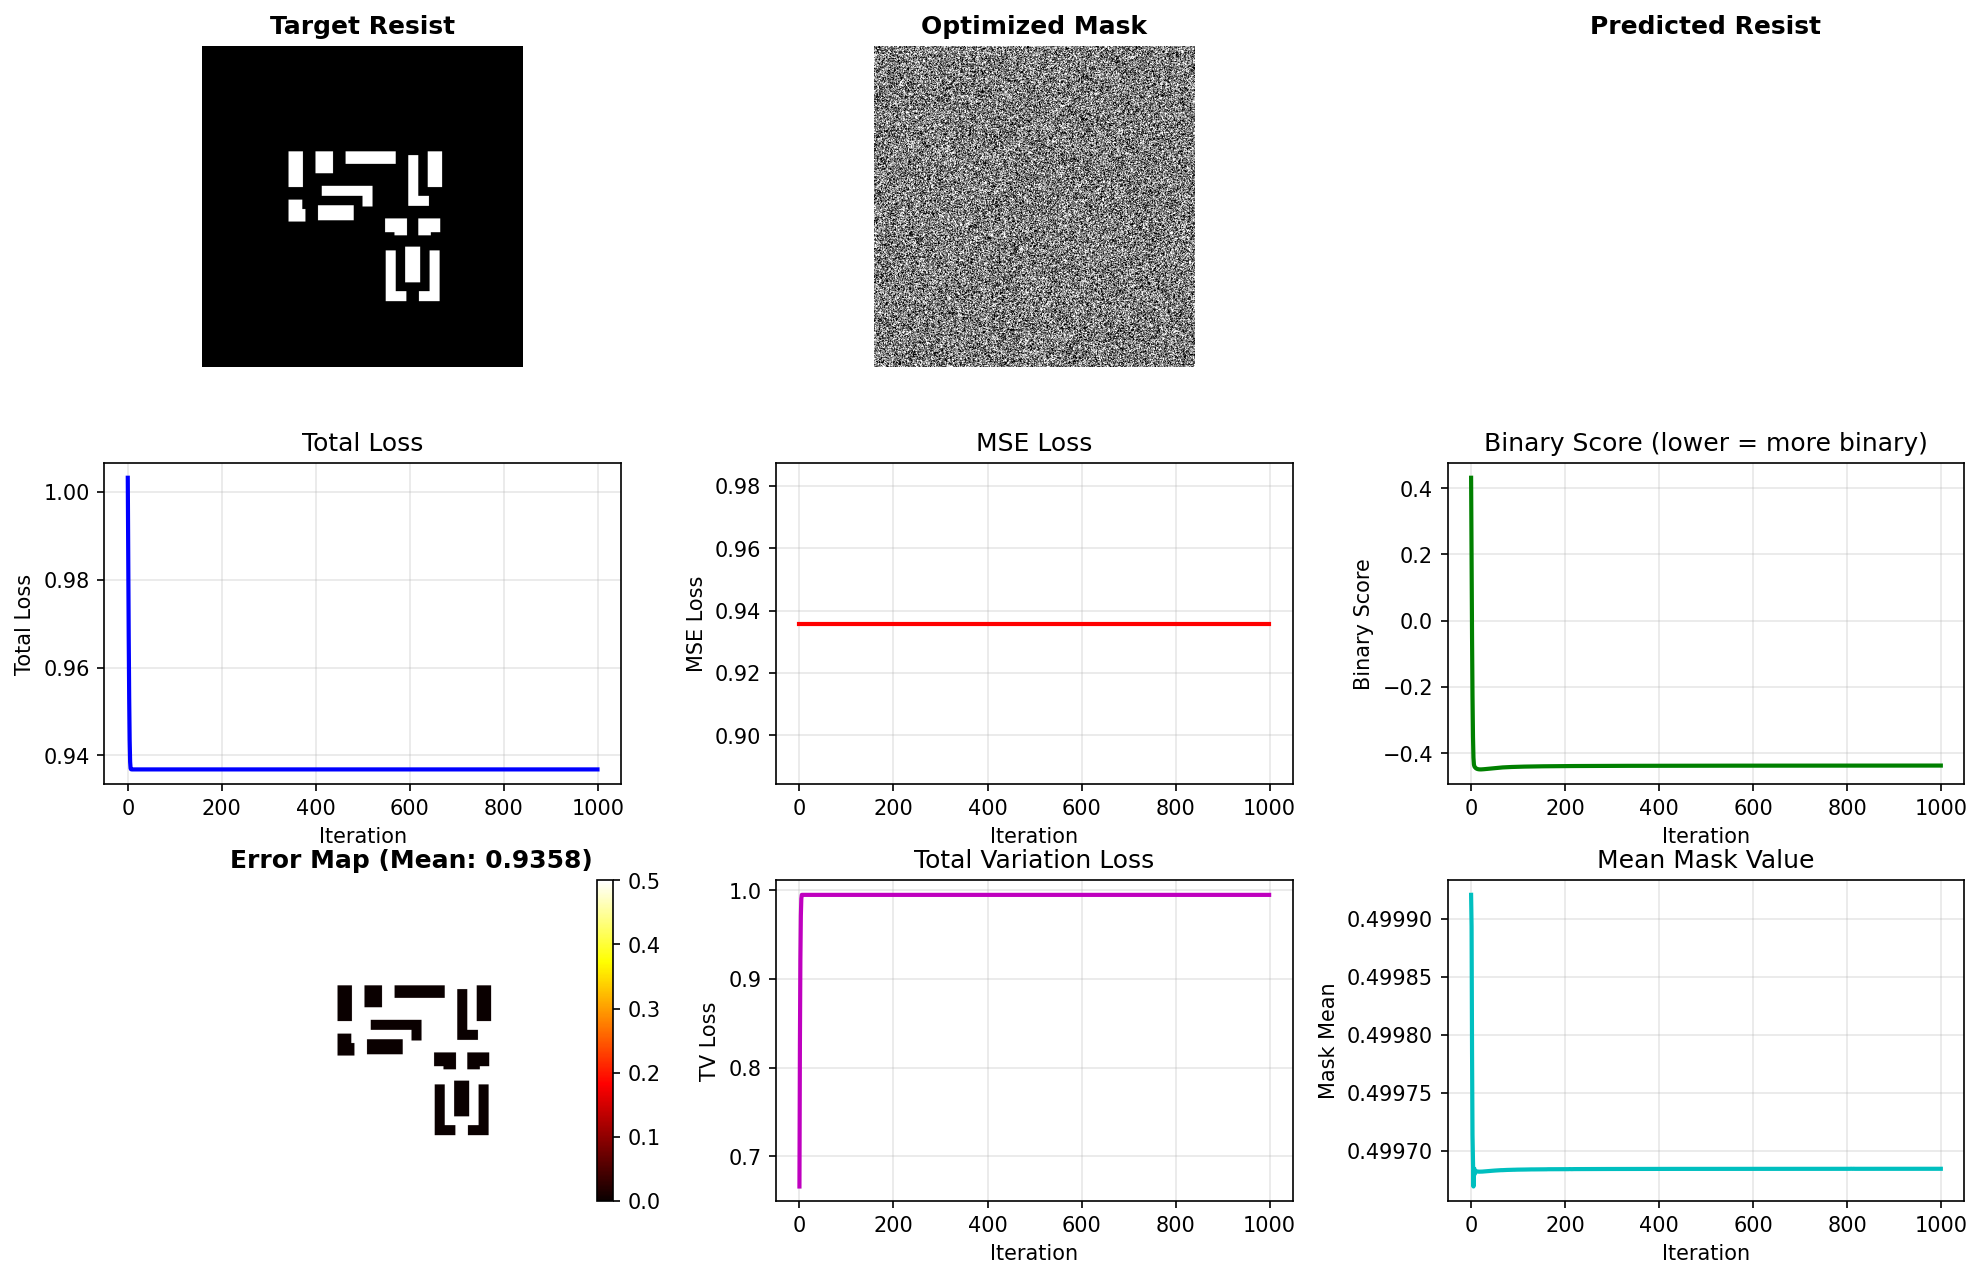
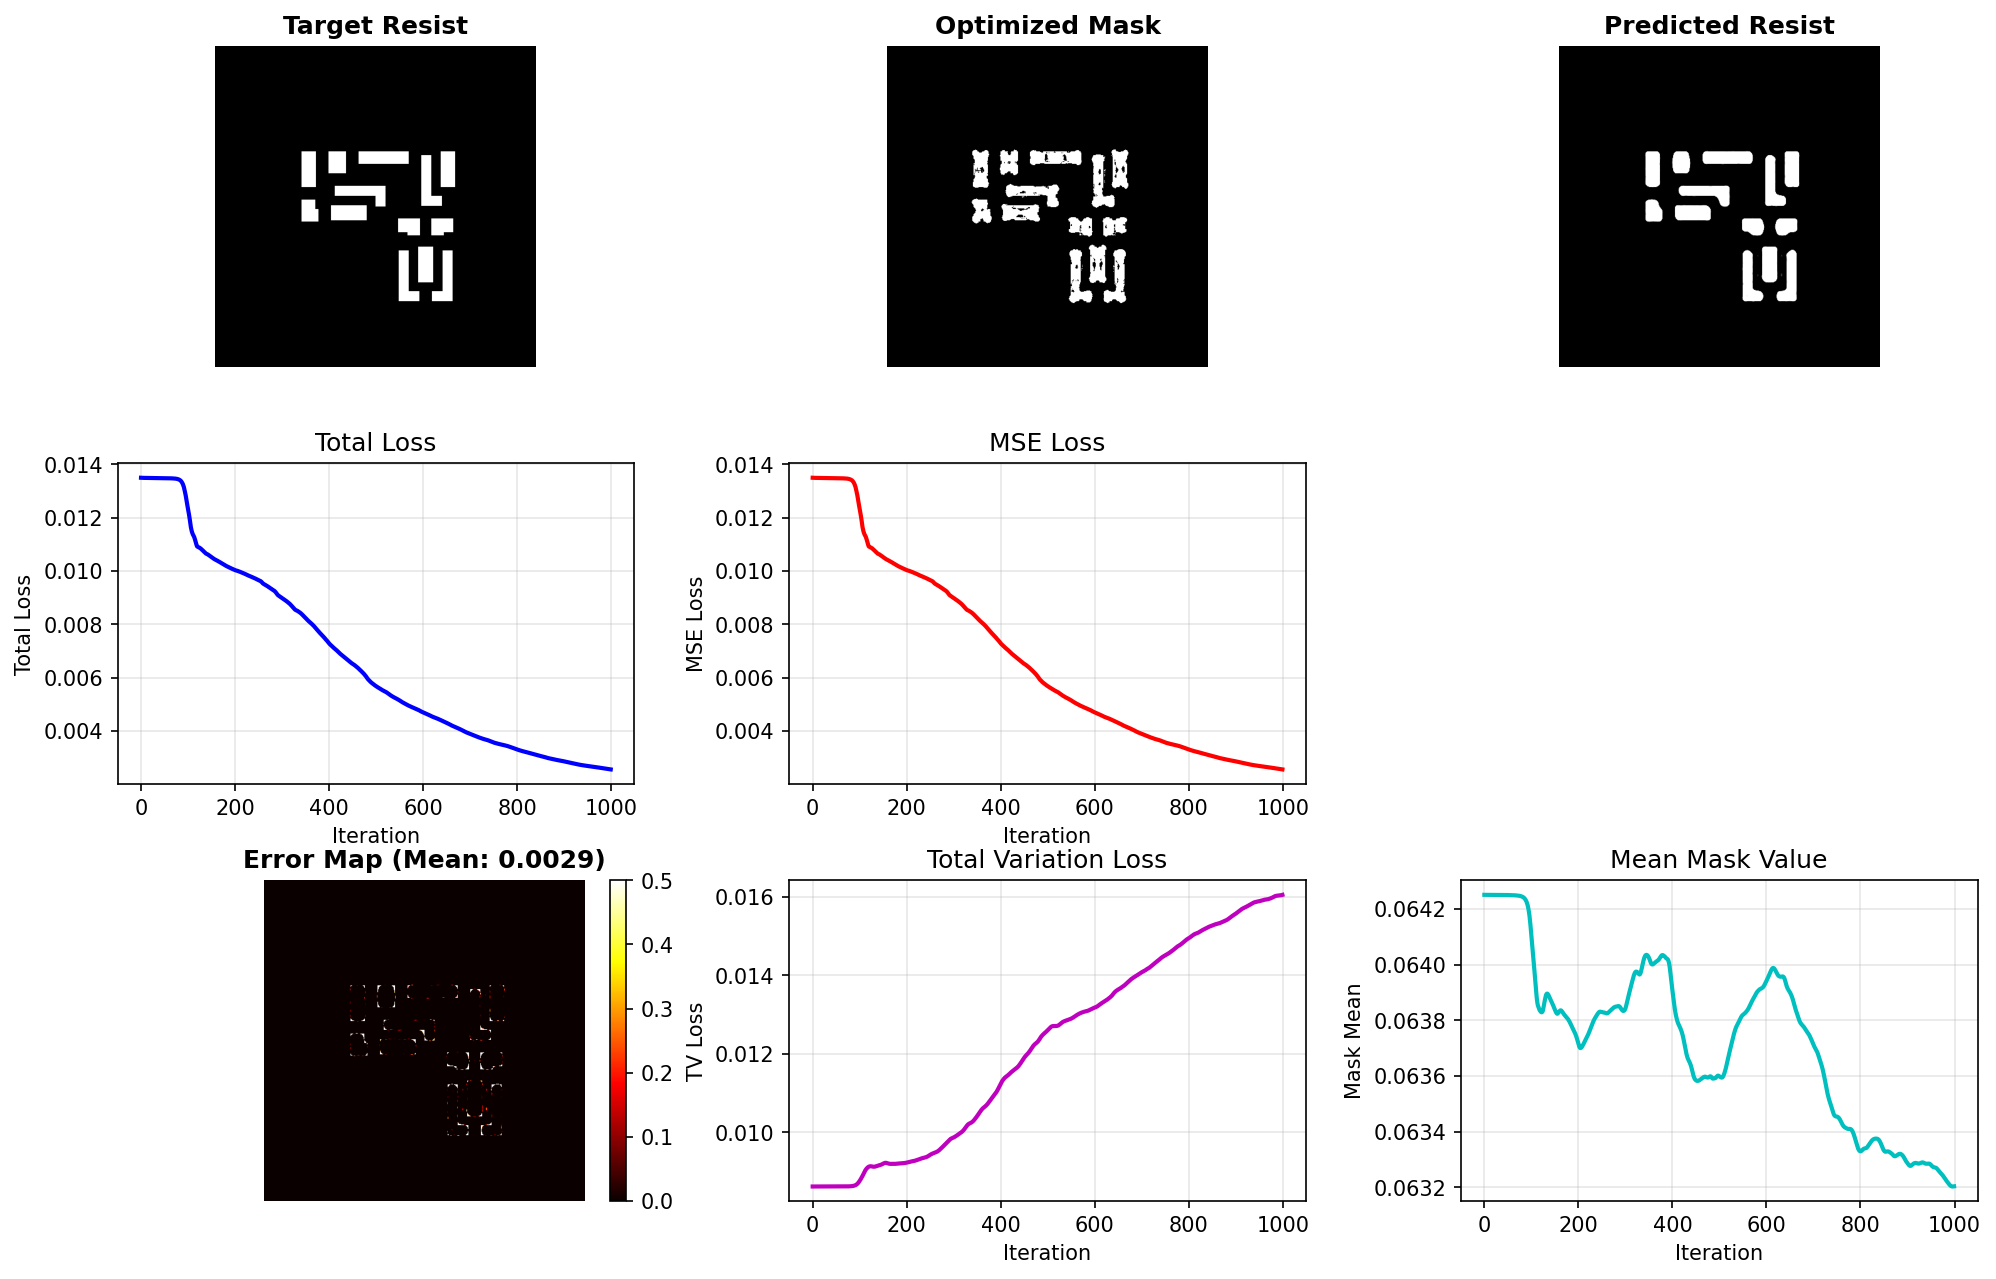
Working inferer, optimisation still has bug

diff --git a/src/core/ml/litho_mask_optimizer.py b/src/core/ml/litho_mask_optimizer.py
@@ -2,35 +2,49 @@ import torch
 import torch.nn as nn
 import torch.optim as optim
 import numpy as np
-from PIL import Image
 from tqdm import tqdm
-from pathlib import Path
 
 
 class MaskOptimizer:
-    def __init__(self, model, device='cuda'):
+    def __init__(self, modelClass, modelPath, device='cuda'):
+
         self.device = torch.device(device if torch.cuda.is_available() else 'cpu')
-        self.model = model.to(self.device)
+
+        self.model = modelClass().to(self.device)
+        self.model.load_state_dict(
+            torch.load('./models/' + modelPath, map_location=self.device)
+        )
         self.model.eval()
 
-        for param in self.model.parameters():
-            param.requires_grad = False
+        for p in self.model.parameters():
+            p.requires_grad = False
 
-        print(f"Optimizer initialized on {self.device}")
+        print(f"Optimizer initialised on {self.device}")
         print(f"Model frozen with {sum(p.numel() for p in self.model.parameters()):,} parameters")
 
-    def optimize(self, target_resist, initial_mask=None, num_iterations=500, 
-                 lr=0.1, binarization_weight=0.1, tv_weight=0.001, binarize_final=True):
-        
+    def optimize(
+        self,
+        target_resist,
+        initial_mask=None,
+        num_iterations=300,
+        lr=0.05,
+        binarization_weight=0.1,
+        tv_weight=0.001,
+        binarize_final=True,
+    ):
+
         target_resist = self._to_tensor(target_resist)
-        
+
         if initial_mask is None:
-            mask = torch.rand_like(target_resist)
+            raw_mask = torch.zeros_like(target_resist, requires_grad=True)
         else:
-            mask = self._to_tensor(initial_mask)
-        
-        mask = nn.Parameter(mask)
-        optimizer = optim.Adam([mask], lr=lr)
+            init = self._to_tensor(initial_mask)
+            eps = 1e-4
+            init = init.clamp(eps, 1 - eps)
+            raw_mask = torch.log(init / (1 - init)).detach().clone()
+            raw_mask.requires_grad_(True)
+
+        optimiser = optim.Adam([raw_mask], lr=lr)
 
         history = {
             'total_loss': [],
@@ -38,65 +52,63 @@ class MaskOptimizer:
             'binary_loss': [],
             'tv_loss': [],
             'mask_mean': [],
-            'binary_score': []
         }
 
-        pbar = tqdm(range(num_iterations), desc='Optimizing')
-        for iteration in pbar:
-            optimizer.zero_grad()
+        pbar = tqdm(range(num_iterations), desc='Optimising')
 
-            with torch.no_grad():
-                mask.data.clamp_(0, 1)
+        for it in pbar:
+            optimiser.zero_grad()
+
+            mask = torch.sigmoid(raw_mask)
 
             _, predicted_resist = self.model(mask)
 
-            mse_loss = ((predicted_resist - target_resist) ** 2).mean()
+            mse_loss = (predicted_resist - target_resist).pow(2).mean()
             binary_loss = (4 * mask * (1 - mask)).mean()
-            tv_loss = self._total_variation_loss(mask)
-            total_loss = mse_loss + binarization_weight * binary_loss + tv_weight * tv_loss
+            tv_loss = self._tv_loss(mask)
+
+            total_loss = (
+                mse_loss
+                + binarization_weight * binary_loss
+                + tv_weight * tv_loss
+            )
 
             total_loss.backward()
-            optimizer.step()
-
-            with torch.no_grad():
-                binary_score = (4 * mask * (1 - mask)).mean().item()
+            optimiser.step()
 
             history['total_loss'].append(total_loss.item())
             history['mse_loss'].append(mse_loss.item())
             history['binary_loss'].append(binary_loss.item())
             history['tv_loss'].append(tv_loss.item())
-            history['mask_mean'].append(mask.data.mean().item())
-            history['binary_score'].append(binary_score)
+            history['mask_mean'].append(mask.mean().item())
 
-            if iteration % 50 == 0:
+            if it % 20 == 0:
                 pbar.set_postfix({
-                    'Loss': f'{total_loss.item():.6f}',
-                    'MSE': f'{mse_loss.item():.6f}',
-                    'Binary': f'{binary_score:.4f}'
+                    'Loss': f'{total_loss.item():.4e}',
+                    'MSE': f'{mse_loss.item():.4e}',
+                    'Mean': f'{mask.mean().item():.3f}',
                 })
 
         with torch.no_grad():
-            mask.data.clamp_(0, 1)
+            final_mask = torch.sigmoid(raw_mask)
             if binarize_final:
-                mask.data = (mask.data > 0.5).float()
+                final_mask = (final_mask > 0.5).float()
 
-        optimized_mask = mask.detach().cpu().squeeze().numpy()
-        return optimized_mask, history
+        return final_mask.cpu().squeeze().numpy(), history
 
     def _to_tensor(self, x):
         if isinstance(x, np.ndarray):
             x = torch.from_numpy(x).float()
-        
         x = x.to(self.device)
-        
+
         if x.dim() == 2:
             x = x.unsqueeze(0).unsqueeze(0)
         elif x.dim() == 3:
             x = x.unsqueeze(0)
-        
+
         return x
 
-    def _total_variation_loss(self, x):
+    def _tv_loss(self, x):
         tv_h = torch.mean(torch.abs(x[:, :, 1:, :] - x[:, :, :-1, :]))
         tv_w = torch.mean(torch.abs(x[:, :, :, 1:] - x[:, :, :, :-1]))
         return tv_h + tv_w

diff --git a/main.py b/main.py
@@ -7,6 +7,7 @@ from src.core.ml.models import MultiTargetUNet
 import torch
 from PIL import Image
 from src.core.ml.litho_mask_optimizer import MaskOptimizer
+from src.core.ml.inferer import Inferer
 import src.visualizers.ml.optimizer_visualizer as optimization_visualizer
 with open("sim_config.json", "r") as f:
     sim_config = json.load(f)
@@ -29,39 +30,72 @@ def main():
     #train_model('./augmented_massive', target_type='resists')
     #optimize_model_multihead('ganopc-data/artitgt')
 
-    optimize_model_multihead('augmented_small')
+    # test_ML_model()
+    optimize_model_multihead()
 
 
-def optimize_model_multihead(data_dir, model_path='litho_surrogate_multi.pth', num_iterations=1000, learning_rate=0.1):
-    model = MultiTargetUNet()
-    model.load_state_dict(torch.load('./models/litho_surrogate_multi_good.pth'))
-    model.eval()
+
+def test_ML_model():
+    inferer = Inferer(modelClass=MultiTargetUNet, model_name='litho_surrogate_multi_good.pth', device='cuda', base_ch=64)
     
-    opt = MaskOptimizer(model=model, device='cuda')
+    img = masks.read_mask_from_img('ganopc-data/artitgt/10605.glp.png')
+    intensity, resist = inferer.predict(img)
+
+
+    #Print min and max
+    print(f"Predicted resist min: {resist.min()}, max: {resist.max()}")
+
+    #show results
+    import matplotlib.pyplot as plt
+    fig, axs = plt.subplots(1, 3, figsize=(12, 4))
+    axs[0].imshow(img, cmap='gray')
+    axs[0].set_title('Input Mask')
+    axs[1].imshow(intensity, cmap='gray')
+    axs[1].set_title('Predicted Intensity')
+    axs[2].imshow(resist, cmap='gray')
+    axs[2].set_title('Predicted Resist')
+    plt.show()
+
+    
+
+
+
+def optimize_model_multihead():
+    opt = MaskOptimizer(modelClass=MultiTargetUNet, modelPath='litho_surrogate_multi_good.pth', device='cuda')
+    
     target_resist = masks.read_mask_from_img('ganopc-data/artitgt/10605.glp.png')
-    
+    mask = torch.rand_like(torch.tensor(target_resist)).numpy()
+
+    target_zeros = np.zeros_like(target_resist)
+    random_mask = np.random.randint(0, 2, size=target_resist.shape).astype(np.float32)
+
+    #Print the min and max of both target and initial mask
+    print(f"Target resist min: {target_resist.min()}, max: {target_resist.max()}")
+    print(f"Initial mask min: {mask.min()}, max: {mask.max()}")
+
+
     optimized_mask, history = opt.optimize(
         target_resist=target_resist,
-        initial_mask=None,
-        num_iterations=1000,
+        initial_mask=target_resist,
+        num_iterations=10000,
         lr=0.1,
-        binarization_weight=0.1,
-        tv_weight=0.001,
+        binarization_weight=0,
+        tv_weight=0,
         binarize_final=True
     )
-    
+
+
     optimization_visualizer.plot_optimization_result(
         target_resist=target_resist,
         optimized_mask=optimized_mask,
         history=history,
-        model=model,
+        model=opt.model,
         device=opt.device,
         save_dir='./visualizations',
         show=True
     )
     
     opt.save_mask(optimized_mask, './results/optimized_mask.png')
-    print("Optimization complete!")
 
 
 def train_model(input_dir, target_type='resists'):

diff --git a/src/core/ml/inferer.py b/src/core/ml/inferer.py
@@ -1,0 +1,46 @@
+import torch
+import numpy as np
+from PIL import Image
+
+
+class Inferer:
+    def __init__(self, modelClass, model_name, device='cuda', **model_kwargs):
+        print(model_kwargs)
+        model = modelClass(**model_kwargs)
+        model.load_state_dict(torch.load('./models/' + model_name))
+        self.device = torch.device(device if torch.cuda.is_available() else 'cpu')
+        self.model = model.to(self.device)
+        self.model.eval()
+        
+        print(f"Inferer initialized on {self.device}")
+    
+    def predict(self, mask_np):
+        mask = np.array(mask_np, dtype=np.float32)
+        mask = torch.from_numpy(mask).unsqueeze(0).unsqueeze(0).to(self.device)
+        
+        with torch.no_grad():
+            output = self.model(mask)
+        
+        #TODO: check if this can be made more generic
+        if isinstance(output, tuple):
+            intensity = output[0].cpu().squeeze().numpy()
+            resist = output[1].cpu().squeeze().numpy()
+            return intensity, resist
+        else:
+            return output.cpu().squeeze().numpy()
+
+    def predict_batch(self, masks_np):
+        if isinstance(masks_np, list):
+            masks_np = np.stack(masks_np)
+        
+        masks = torch.from_numpy(masks_np).float().unsqueeze(1).to(self.device)
+        
+        with torch.no_grad():
+            output = self.model(masks)
+        
+        if isinstance(output, tuple):
+            intensities = output[0].cpu().squeeze(1).numpy()
+            resists = output[1].cpu().squeeze(1).numpy()
+            return [(intensities[i], resists[i]) for i in range(len(intensities))]
+        else:
+            return output.cpu().squeeze(1).numpy()

diff --git a/src/core/ml/models.py b/src/core/ml/models.py
@@ -1,6 +1,6 @@
 import torch
 import torch.nn as nn
-
+import numpy as np
 
 class ConvBlock(nn.Module):
     def __init__(self, in_ch, out_ch):
@@ -104,5 +104,20 @@ class MultiTargetUNet(nn.Module):
 
         intensity = torch.clamp(self.head_intensity(d1), 0, 1)
         resist = torch.clamp(self.head_resist(d1), 0, 1)
+        
+        return intensity, resist
+    
+    def predict(self, mask_np):
+        self.eval()
+        device = next(self.parameters()).device
+        
+        mask = np.array(mask_np, dtype=np.float32)
+        mask = torch.from_numpy(mask).unsqueeze(0).unsqueeze(0).to(device)
+        
+        with torch.no_grad():
+            intensity, resist = self(mask)
+        
+        intensity = intensity.cpu().squeeze().numpy()
+        resist = resist.cpu().squeeze().numpy()
         
         return intensity, resist

diff --git a/src/visualizers/ml/optimizer_visualizer.py b/src/visualizers/ml/optimizer_visualizer.py
@@ -51,13 +51,7 @@ def plot_optimization_result(target_resist, optimized_mask, history, model, devi
     ax5.set_title('MSE Loss')
     ax5.grid(alpha=0.3)
     
-    ax6 = fig.add_subplot(gs[1, 2])
-    ax6.plot(iterations, history['binary_score'], 'g-', linewidth=2)
-    ax6.set_xlabel('Iteration')
-    ax6.set_ylabel('Binary Score')
-    ax6.set_title('Binary Score (lower = more binary)')
-    ax6.grid(alpha=0.3)
-    
+ 
     # Row 3: Error map and additional metrics
     error = np.abs(target_resist - pred_resist_np)
     
